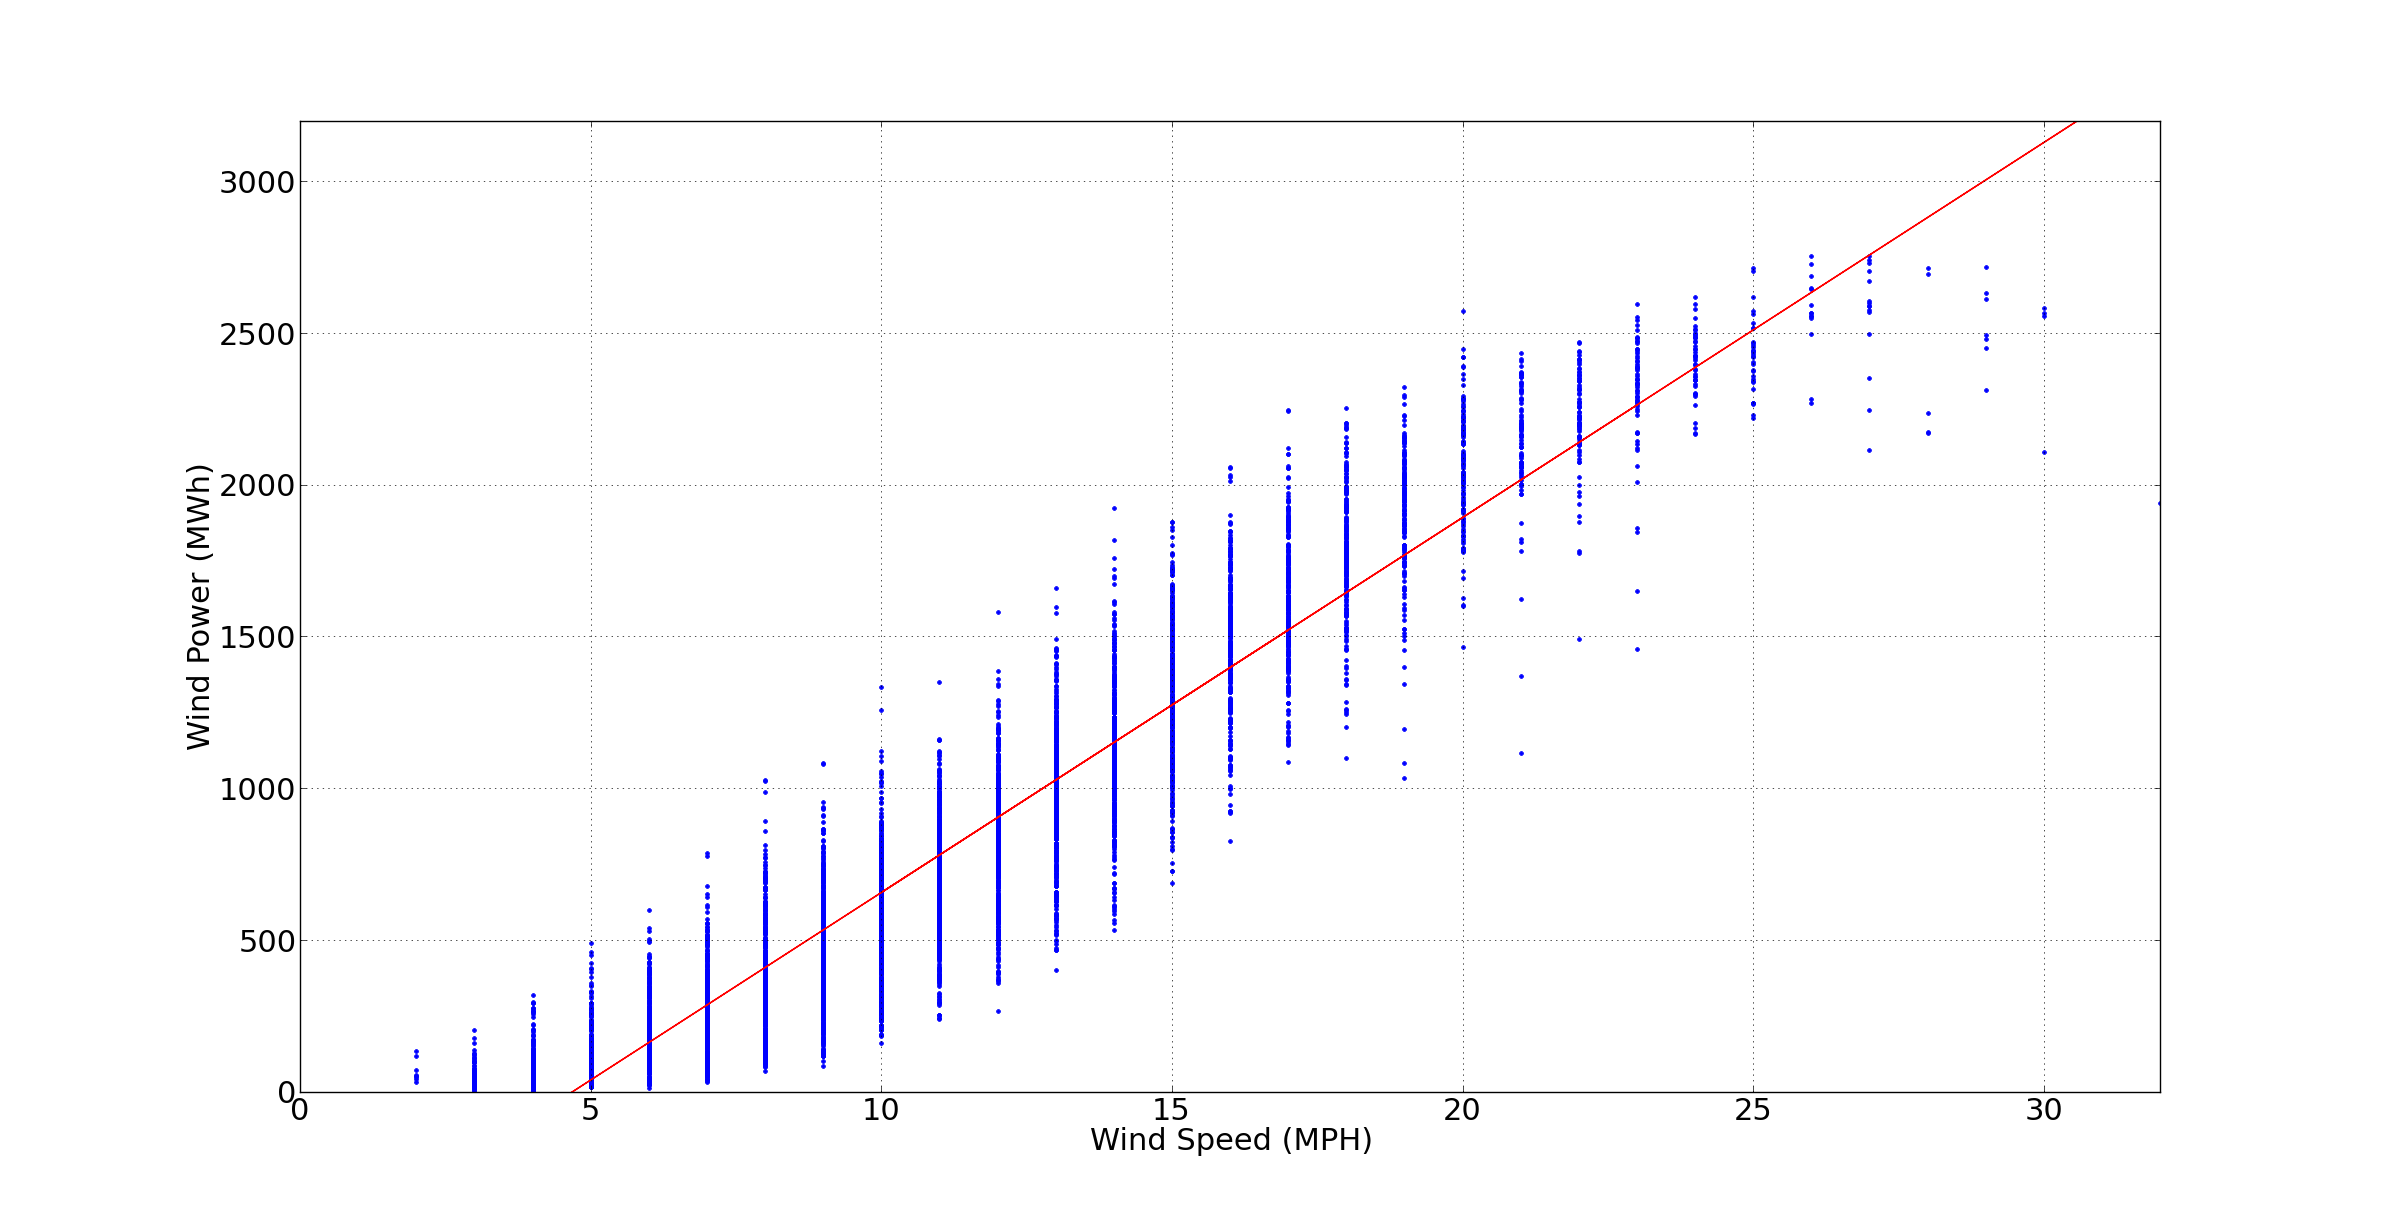
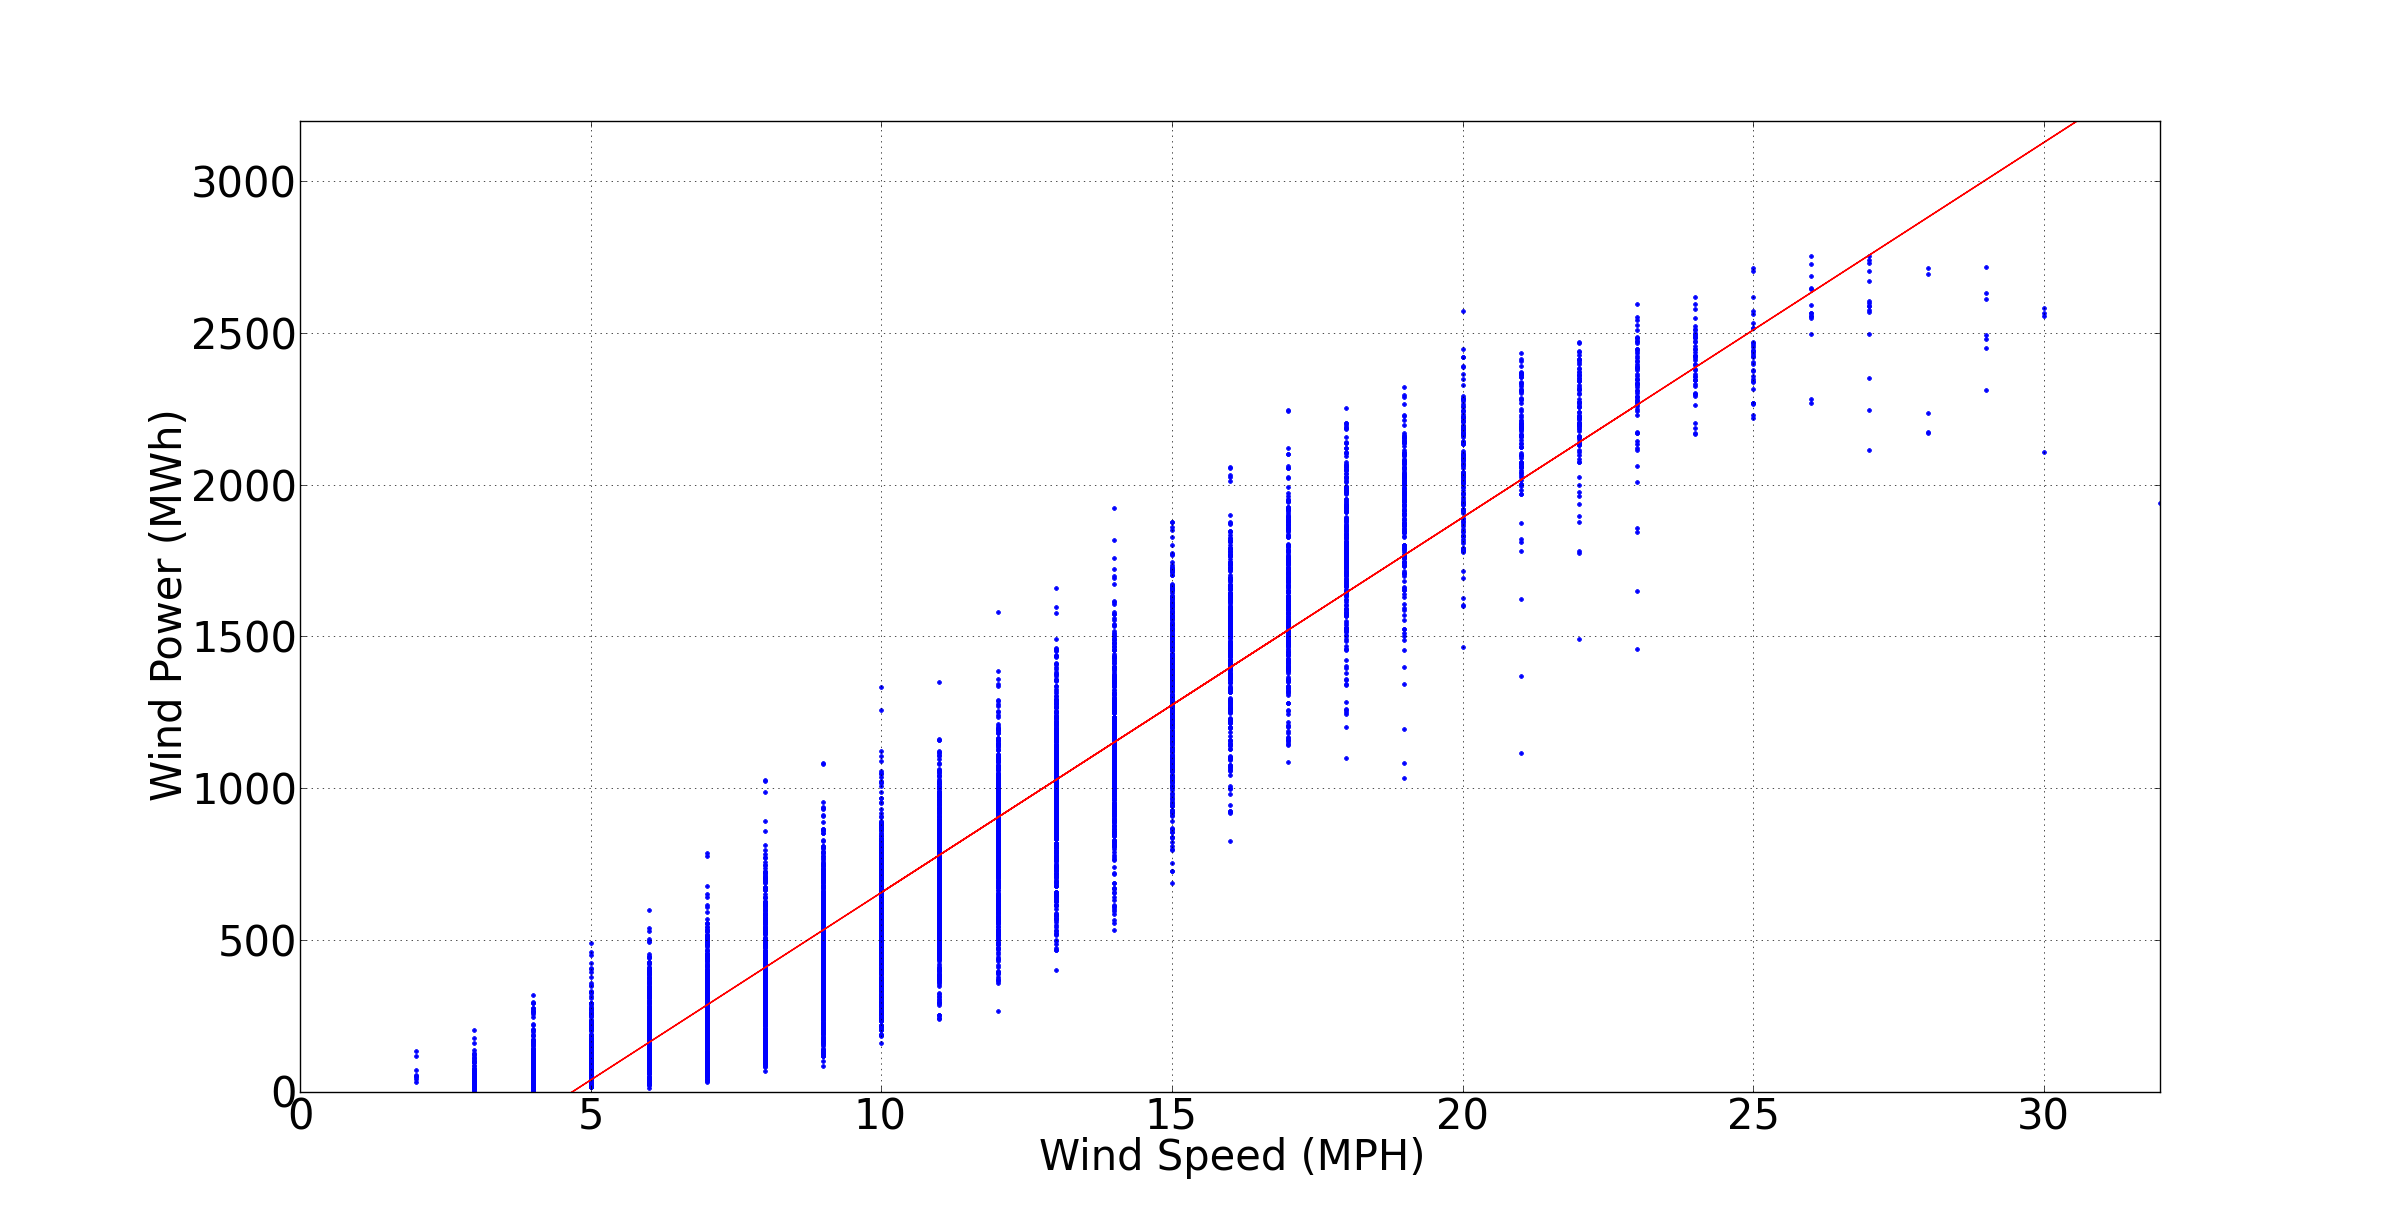
dw

diff --git a/sections/Experiments/WindProductionExperiments.tex b/sections/Experiments/WindProductionExperiments.tex
@@ -253,7 +253,7 @@ The first 175 hours of the best prediction from Table~\ref{table:windProdInputPa
 
 \begin{figure}[H]
 \centering
-\includegraphics[width=0.99\linewidth]{billeder/bestInputParameterPrediction.png}
+\includegraphics[width=0.99\textwidth]{billeder/bestInputParameterPrediction.png}
 \caption{Wind production prediction for 0-175 hours in 2012 with the best combination}
 \label{fig:bestInputParameterPrediction}
 \end{figure} 
@@ -262,7 +262,7 @@ The three overlay situations are emphasized because they show a general problem.
 
 \begin{figure}[H]
 \centering
-\includegraphics[width=0.99\linewidth]{billeder/bestInputCombi120-148.png}
+\includegraphics[width=0.99\textwidth]{billeder/bestInputCombi120-148.png}
 \caption{Wind production prediction for 24 hours between 120 and 148}
 \label{fig:bestInputCombi120-148}
 \end{figure} 
@@ -271,7 +271,7 @@ The opposite situation with overshooting for the yellow overlay (96-120) is show
 
 \begin{figure}[H]
 \centering
-\includegraphics[width=0.99\linewidth]{billeder/bestInputCombi96-120.png}
+\includegraphics[width=0.99\textwidth]{billeder/bestInputCombi96-120.png}
 \caption{Wind production prediction for 24 hours between 96 and 120}
 \label{fig:bestInputCombi96-120}
 \end{figure} 
@@ -282,14 +282,14 @@ The graph in Figure~\ref{fig:bestInputParameterLowNumbers} has been highlighted 
 
 \begin{figure}[H]
 \centering
-\includegraphics[width=0.99\linewidth]{billeder/bestInputParameterLowNumbers.png}
+\includegraphics[width=0.99\textwidth]{billeder/bestInputParameterLowNumbers.png}
 \caption{Wind production prediction for 5000-5175 hours in 2012 with the best combination}
 \label{fig:bestInputParameterLowNumbers}
 \end{figure} 
 
 \begin{figure}[H]
 \centering
-\includegraphics[width=0.99\linewidth]{billeder/bestInputCombi4500-4700.png}
+\includegraphics[width=0.99\textwidth]{billeder/bestInputCombi4500-4700.png}
 \caption{Wind production prediction for 4500-4700 hours in 2012 with the best combination}
 \label{fig:bestInputCombi4500-4700}
 \end{figure} 
@@ -441,14 +441,14 @@ Section~\ref{sec:windProductionDev} discuss how trimming would affect the datase
 
 \begin{figure}[H]
 \centering
-\includegraphics[width=0.99\linewidth]{billeder/fivePercentTrimPrediction.png}
+\includegraphics[width=0.99\textwidth]{billeder/fivePercentTrimPrediction.png}
 \caption{Wind power prediction for hours 0-400 with 5\% trim}
 \label{fig:fivePercentTrimPrediction}
 \end{figure} 
 
 \begin{figure}[H]
 \centering
-\includegraphics[width=0.99\linewidth]{billeder/bestInputPredictFrom0-400.png}
+\includegraphics[width=0.99\textwidth]{billeder/bestInputPredictFrom0-400.png}
 \caption{Wind power prediction for hours 0-400 with best input combination}
 \label{fig:bestInputPredictFrom0-400}
 \end{figure} 
@@ -458,7 +458,7 @@ The prediction in Figure~\ref{fig:bestMatrixGraph} is much similar to what was s
 
 \begin{figure}[H]
 \centering
-\includegraphics[width=0.99\linewidth]{billeder/bestMatrixGraph.png}
+\includegraphics[width=0.99\textwidth]{billeder/bestMatrixGraph.png}
 \caption{Wind power prediction for 175 hours in 2012 for the best matrix experiment}
 \label{fig:bestMatrixGraph}
 \end{figure}   
@@ -544,7 +544,7 @@ All combinations of smoothing factor and previous hours can be seen in Appendix~
 
 \begin{figure}[H]
 \centering
-\includegraphics[width=0.99\linewidth]{billeder/bestVolatilityVsMatrixGraph.png}
+\includegraphics[width=0.99\textwidth]{billeder/bestVolatilityVsMatrixGraph.png}
 \caption{Wind production prediction for hours 0-175 in 2012 with historical volatility as input}
 \label{fig:bestVolatilityVsMatrixGraph}
 \end{figure} 
@@ -553,14 +553,14 @@ A noticeable difference from the above graph is how the volatility approach unde
 
 \begin{figure}[H]
 \centering
-\includegraphics[width=0.99\linewidth]{billeder/bestVolatilityVsMatrixGraph350-525.png}
+\includegraphics[width=0.99\textwidth]{billeder/bestVolatilityVsMatrixGraph350-525.png}
 \caption{Wind production prediction for hours 350-525 hours in 2012 with historical volatility as input}
 \label{fig:bestVolatilityVsMatrixGraph350-525}
 \end{figure} 
 
 \begin{figure}[H]
 \centering
-\includegraphics[width=0.99\linewidth]{billeder/volatilityBest700-1000.png}
+\includegraphics[width=0.99\textwidth]{billeder/volatilityBest700-1000.png}
 \caption{Wind production prediction for hours 700-1000 hours in 2012 with historical volatility as input}
 \label{fig:volatilityBest700-1000}
 \end{figure} 
@@ -601,7 +601,7 @@ Figure~\ref{fig:bestSkewnessGraph} shows the first 175 hours when using skewness
 
 \begin{figure}[H]
 \centering
-\includegraphics[width=0.99\linewidth]{billeder/bestSkewnessGraph.png}
+\includegraphics[width=0.99\textwidth]{billeder/bestSkewnessGraph.png}
 \caption{Wind production prediction for 175 hours in 2012 with skewness as input}
 \label{fig:bestSkewnessGraph}
 \end{figure}    
@@ -643,7 +643,7 @@ The impact of slope is illustrated in the first 175 of 2012 and can be seen in F
 
 \begin{figure}[H]
 \centering
-\includegraphics[width=0.99\linewidth]{billeder/curveAnalysisWindProduction.png}
+\includegraphics[width=0.99\textwidth]{billeder/curveAnalysisWindProduction.png}
 \caption{Wind production prediction for 175 hours in 2012 with slope as input}
 \label{fig:basicCurveAnalysisGrapho}
 \end{figure} 
@@ -652,7 +652,7 @@ It was stated that the 24-ahead prediction was the contributing factor to the el
 
 \begin{figure}[H]
 \centering
-\includegraphics[width=0.99\linewidth]{billeder/curveOneAheadvs24Ahead.png}
+\includegraphics[width=0.99\textwidth]{billeder/curveOneAheadvs24Ahead.png}
 \caption{1-step vs. 24-step ahead wind power predictions with curve}
 \label{fig:curveOneAheadvs24Ahead}
 \end{figure}   
@@ -690,7 +690,7 @@ Skewness and curve in combination with each other achieves the best result but d
 
 \begin{figure}[H]
 \centering
-\includegraphics[width=0.99\linewidth]{billeder/bestStatisticalApproachGraph.png}
+\includegraphics[width=0.99\textwidth]{billeder/bestStatisticalApproachGraph.png}
 \caption{Wind production prediction for hours 120-144 in 2012 with historical volatility}
 \label{fig:bestStatisticalApproachGraph}
 \end{figure} 
@@ -760,14 +760,14 @@ This is also seen in Figure~\ref{fig:bestVolatility408to432}. Since MAE is the e
 
 \begin{figure}[H]
 \centering
-\includegraphics[width=0.99\linewidth]{billeder/bestVolatility120to144.png}
+\includegraphics[width=0.99\textwidth]{billeder/bestVolatility120to144.png}
 \caption{Wind production prediction for hours 120-144 in 2012 with historical volatility}
 \label{fig:bestVolatility120to144}
 \end{figure} 
 
 \begin{figure}[H]
 \centering
-\includegraphics[width=0.99\linewidth]{billeder/bestVolatility408to432.png}
+\includegraphics[width=0.99\textwidth]{billeder/bestVolatility408to432.png}
 \caption{Wind production prediction for hours 408-432 in 2012 with historical volatility}
 \label{fig:bestVolatility408to432}
 \end{figure} 
@@ -903,28 +903,28 @@ A whole year (as used here) contains the different seasonal impacts but at the s
 
 \begin{figure}[H]
 \centering
-\includegraphics[width=0.99\linewidth]{billeder/bestPossiblePredictionWindProduction0-300.png}
+\includegraphics[width=0.99\textwidth]{billeder/bestPossiblePredictionWindProduction0-300.png}
 \caption{Best prediction for 300 hours of January (Winter)}
 \label{fig:bestWPPredictWinter}
 \end{figure}
 
 \begin{figure}[H]
 \centering
-\includegraphics[width=0.99\linewidth]{billeder/bestPossiblePredictionWindProduction2300-2600_April_Spring.png}
+\includegraphics[width=0.99\textwidth]{billeder/bestPossiblePredictionWindProduction2300-2600_April_Spring.png}
 \caption{Best prediction for 300 hours of April (Spring)}
 \label{fig:bestWPPredictSpring}
 \end{figure}
 
 \begin{figure}[H]
 \centering
-\includegraphics[width=0.99\linewidth]{billeder/bestPossiblePredictionWindProduction4400-4700-Summer.png}
+\includegraphics[width=0.99\textwidth]{billeder/bestPossiblePredictionWindProduction4400-4700-Summer.png}
 \caption{Best prediction for 300 hours of July (Summer)}
 \label{fig:bestPredictWPSummer}
 \end{figure}
 
 \begin{figure}[H]
 \centering
-\includegraphics[width=0.99\linewidth]{billeder/bestPossiblePredictionWindProduction7000-7300_Fall.png}
+\includegraphics[width=0.99\textwidth]{billeder/bestPossiblePredictionWindProduction7000-7300_Fall.png}
 \caption{Best prediction for 300 hours for Oct-Nov (Fall)}
 \label{fig:bestPredictWPFall}
 \end{figure}
@@ -999,14 +999,14 @@ This problem becomes more clear when looking at Figure~\ref{fig:best22vsbest24Ah
 
 \begin{figure}[H]
 \centering
-\includegraphics[width=0.99\linewidth]{billeder/best22vsbest24Ahead.png}
+\includegraphics[width=0.99\textwidth]{billeder/best22vsbest24Ahead.png}
 \caption{22-step-ahead forecast}
 \label{fig:best22vsbest24Ahead}
 \end{figure}
 
 \begin{figure}[H]
 \centering
-\includegraphics[width=0.99\linewidth]{billeder/best24AheadPredictionWithLines.png}
+\includegraphics[width=0.99\textwidth]{billeder/best24AheadPredictionWithLines.png}
 \caption{24-step-ahead forecast}
 \label{fig:best24AheadPredictionWithLines}
 \end{figure} 
@@ -1058,12 +1058,6 @@ Due to the discussion regarding the different starting points (or offsets) we ha
 \label{table:stepAheadForecastingWindProductionStartingPositions}
 \end{longtable}
 \end{center}
-
-
-
-
-
-\todo{one step ahead vs. 24 ahead to show that is the same in the beginning on 24 timer}
 
 \subsubsection{Conclusion}
 The expectation was to see an improvement in MAE when predicting fewer hours which was seen in Table~\ref{table:stepAheadForecastingWindProduction}. It also showed that at some point the fewer hours is not necessarily better because they start at different positions and the prediction can correct itself the further it gets. The starting position has a huge impact on the accuracy of the prediction which was illustrated in the comparison between 22- and 24-step-ahead forecasts. It was further backed up by trying out all starting points with 24-step-ahead forecasting.

diff --git a/sections/GreenEnergyTrainingset/greenEnergyTrainingSet.tex b/sections/GreenEnergyTrainingset/greenEnergyTrainingSet.tex
@@ -29,14 +29,14 @@ Wind speed is directly proportional to wind production as described in Section~\
 
 \begin{figure}[H]
 \centering
-\includegraphics[width=0.99\linewidth]{billeder/windSpeedWindProductionPlot.png}
+\includegraphics[width=0.99\textwidth]{billeder/windSpeedWindProductionPlot.png}
 \caption{Wind speed and wind production in diagram}
 \label{fig:windSpeedWindProductionPlot}
 \end{figure}
 
 \begin{figure}[H]
 \centering
-\includegraphics[width=0.95\linewidth]{billeder/WindSpeedVsProduction.png}
+\includegraphics[width=0.99\textwidth]{billeder/WindSpeedVsProduction.png}
 \caption{Wind speed vs. wind production from 2012}
 \label{fig:windVsProd}
 \end{figure}
@@ -67,7 +67,7 @@ Air density depends directly on temperature and pressure which can be described 
 
 \begin{figure}[H]
 \centering
-\includegraphics[width=0.95\linewidth]{billeder/pressureTemperatureVariance.png}
+\includegraphics[width=0.99\textwidth]{billeder/pressureTemperatureVariance.png}
 \caption{Temperature and Pressure variance for 2012}
 \label{fig:pressureTemperatureVariance}
 \end{figure}
@@ -118,7 +118,7 @@ Average: & 0,28 \\ % [1ex] adds vertical space
 \normalsize
 
 \subsubsection{Wind Direction}
-Figure~\ref{fig:windDirVsProd} shows that the wind direction in general has a slight impact on the wind production (even though it is hard to see from the plot) which can also be seen in the correlation constant 0,21 from Table~\ref{table:pearsonCoeficientWindDirection}. The wind direction is expected to have a small influence based on Section~\ref{sec:windmillPlacement} where it is described how change in wind direction affect placement of windmills. The wind speed could be more powerful when coming from a specific direction which differs according to the physical location. It needs to be validated in experiments if the wind direction makes sense for western Denmark.
+Figure~\ref{fig:windDirVsProd} shows that the wind direction in general has a slight impact on the wind production (even though it is hard to see from the plot) which can also be seen in the correlation constant of 0,21 from Table~\ref{table:pearsonCoeficientWindDirection}. The wind direction is expected to have a small influence based on Section~\ref{sec:windmillPlacement} where it is described how change in wind direction affect placement of windmills. The wind speed could be more powerful when coming from a specific direction which differs according to the physical location. It needs to be validated in experiments if the wind direction makes sense for western Denmark.
  
 \begin{table}[H]
 \centering  % used for centering table
@@ -137,7 +137,7 @@ Wind Speed & 0.20 \\ \hline % [1ex] adds vertical space
 
 \begin{figure}[H]
 \centering
-\includegraphics[width=0.95\linewidth]{billeder/productionVsWindDirection.png}
+\includegraphics[width=0.99\textwidth]{billeder/productionVsWindDirection.png}
 \caption{Wind Direction vs. wind production in 2012}
 \label{fig:windDirVsProd}
 \end{figure}
@@ -148,7 +148,7 @@ According to the correlation constant of 0.61 from Table~\ref{table:pearsonCoefi
 
 \begin{figure}[H]
 \centering
-\includegraphics[width=0.95\linewidth]{billeder/consumptionVsWindProduction.png}
+\includegraphics[width=0.99\textwidth]{billeder/consumptionVsWindProduction.png}
 \caption{Demand vs. Wind Production in 2012}
 \label{fig:demandVsWindProduction}
 \end{figure}
@@ -157,7 +157,7 @@ According to the correlation constant of 0.61 from Table~\ref{table:pearsonCoefi
 
 \begin{figure}[H]
 \centering
-\includegraphics[width=0.95\linewidth]{billeder/energy_price_plots/consump_temp.png}
+\includegraphics[width=0.99\textwidth]{billeder/energy_price_plots/consump_temp.png}
 \caption{Demand and temperature plot.}
 \label{fig:consump_temp_green}
 \end{figure}
@@ -199,7 +199,7 @@ Wind power is highly volatile. This statement is clear when observing the develo
 
 \begin{figure}[H]
 \centering
-\includegraphics[width=0.99\linewidth]{billeder/productionTendency400Hours.png}
+\includegraphics[width=0.99\textwidth]{billeder/productionTendency400Hours.png}
 \caption{Wind production development for 400 hours in 2011}
 \label{fig:windHourDevelopment400Hours}
 \end{figure}
@@ -230,7 +230,7 @@ Low margin: & 13.5 & 2.7 & 1930.5 \\ \hline % [1ex] adds vertical space
 
 \begin{figure}[H]
 \centering
-\includegraphics[width=0.95\linewidth]{billeder/windProductionVsLastWindProduction.png}
+\includegraphics[width=0.99\textwidth]{billeder/windProductionVsLastWindProduction.png}
 \caption{Wind power vs. last known wind power}
 \label{fig:windProductionVsLastWindProduction}
 \end{figure}
@@ -242,7 +242,7 @@ Trimming is for removing irregularities that we are not able to predict. Intuiti
 
 \begin{figure}[H]
 \centering
-\includegraphics[width=0.99\linewidth]{billeder/windProductionTrimming.jpg}
+\includegraphics[width=0.99\textwidth]{billeder/windProductionTrimming.jpg}
 \caption{Wind power production trimming}
 \label{fig:windProductionTrimming}
 \end{figure}
@@ -251,7 +251,7 @@ The graph containing the trims for the entire year makes it hard to see what is 
 
 \begin{figure}[H]
 \centering
-\includegraphics[width=0.99\linewidth]{billeder/pointingOutPlaceWhereTrim.png}
+\includegraphics[width=0.99\textwidth]{billeder/pointingOutPlaceWhereTrim.png}
 \caption{Wind power production vs. last known wind power production}
 \label{fig:pointingOutPlaceWhereTrim}
 \end{figure}

diff --git a/thesis.tex b/thesis.tex
@@ -185,7 +185,7 @@ Being able to predict electricity prices and green energy production is the basi
 
 \chapter{Dataset Analysis}
 \label{ch:theANNs}
-The purpose of this chapter will be to analyse what influences the price and wind production. The influences are based on concepts and knowledge from Section \ref{sec:predictionSection} and need further validation by analysing them in regard to the Danish electricity market. Furthermore the objective uncertainty presented in Section \ref{sec:uncertainInformation} will be elaborated on when analysing what influences the electricity price/wind power. The analysis will contribute to locating the potential input parameters to be used in the Artificial Neural Network.
+The purpose of this chapter will analyse what influence the price and wind production. The analysis will contribute to locating the potential input parameters to be used in the Artificial Neural Network. \todo{write more}
 \section{Data Collection}
 \label{sec:dataCollection}
 \input{sections/DataCollection/datacollection.tex}
